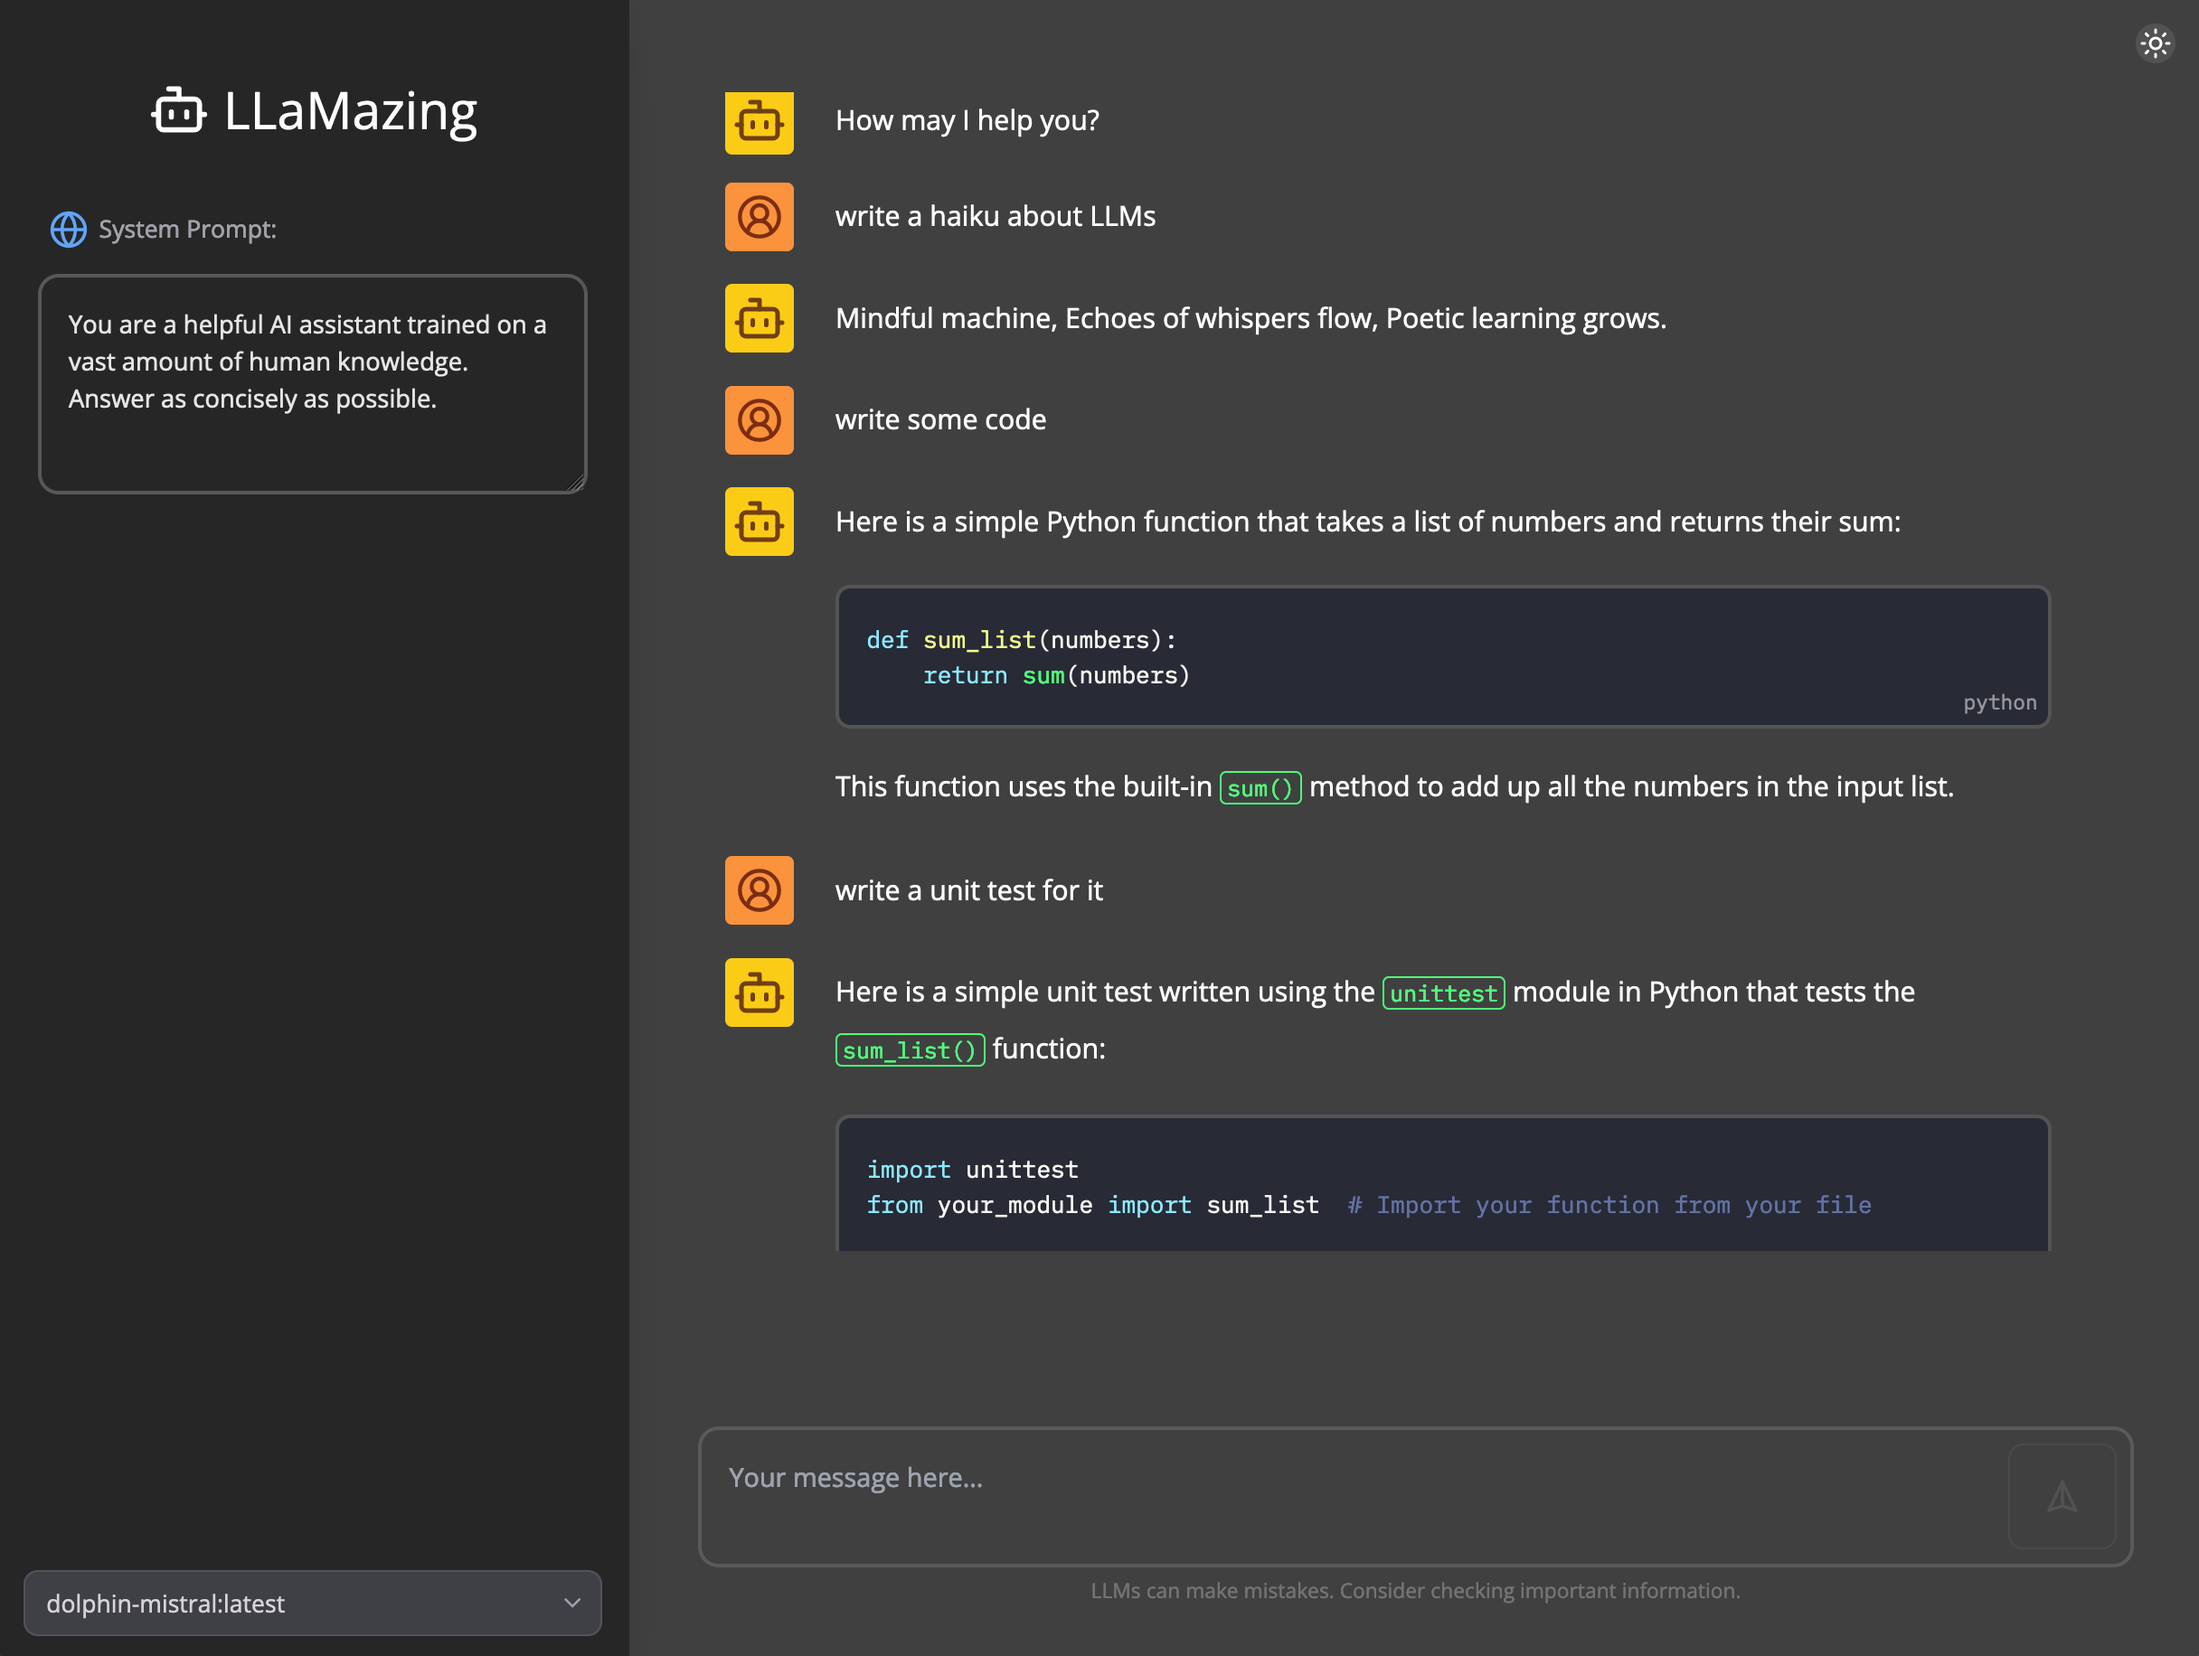
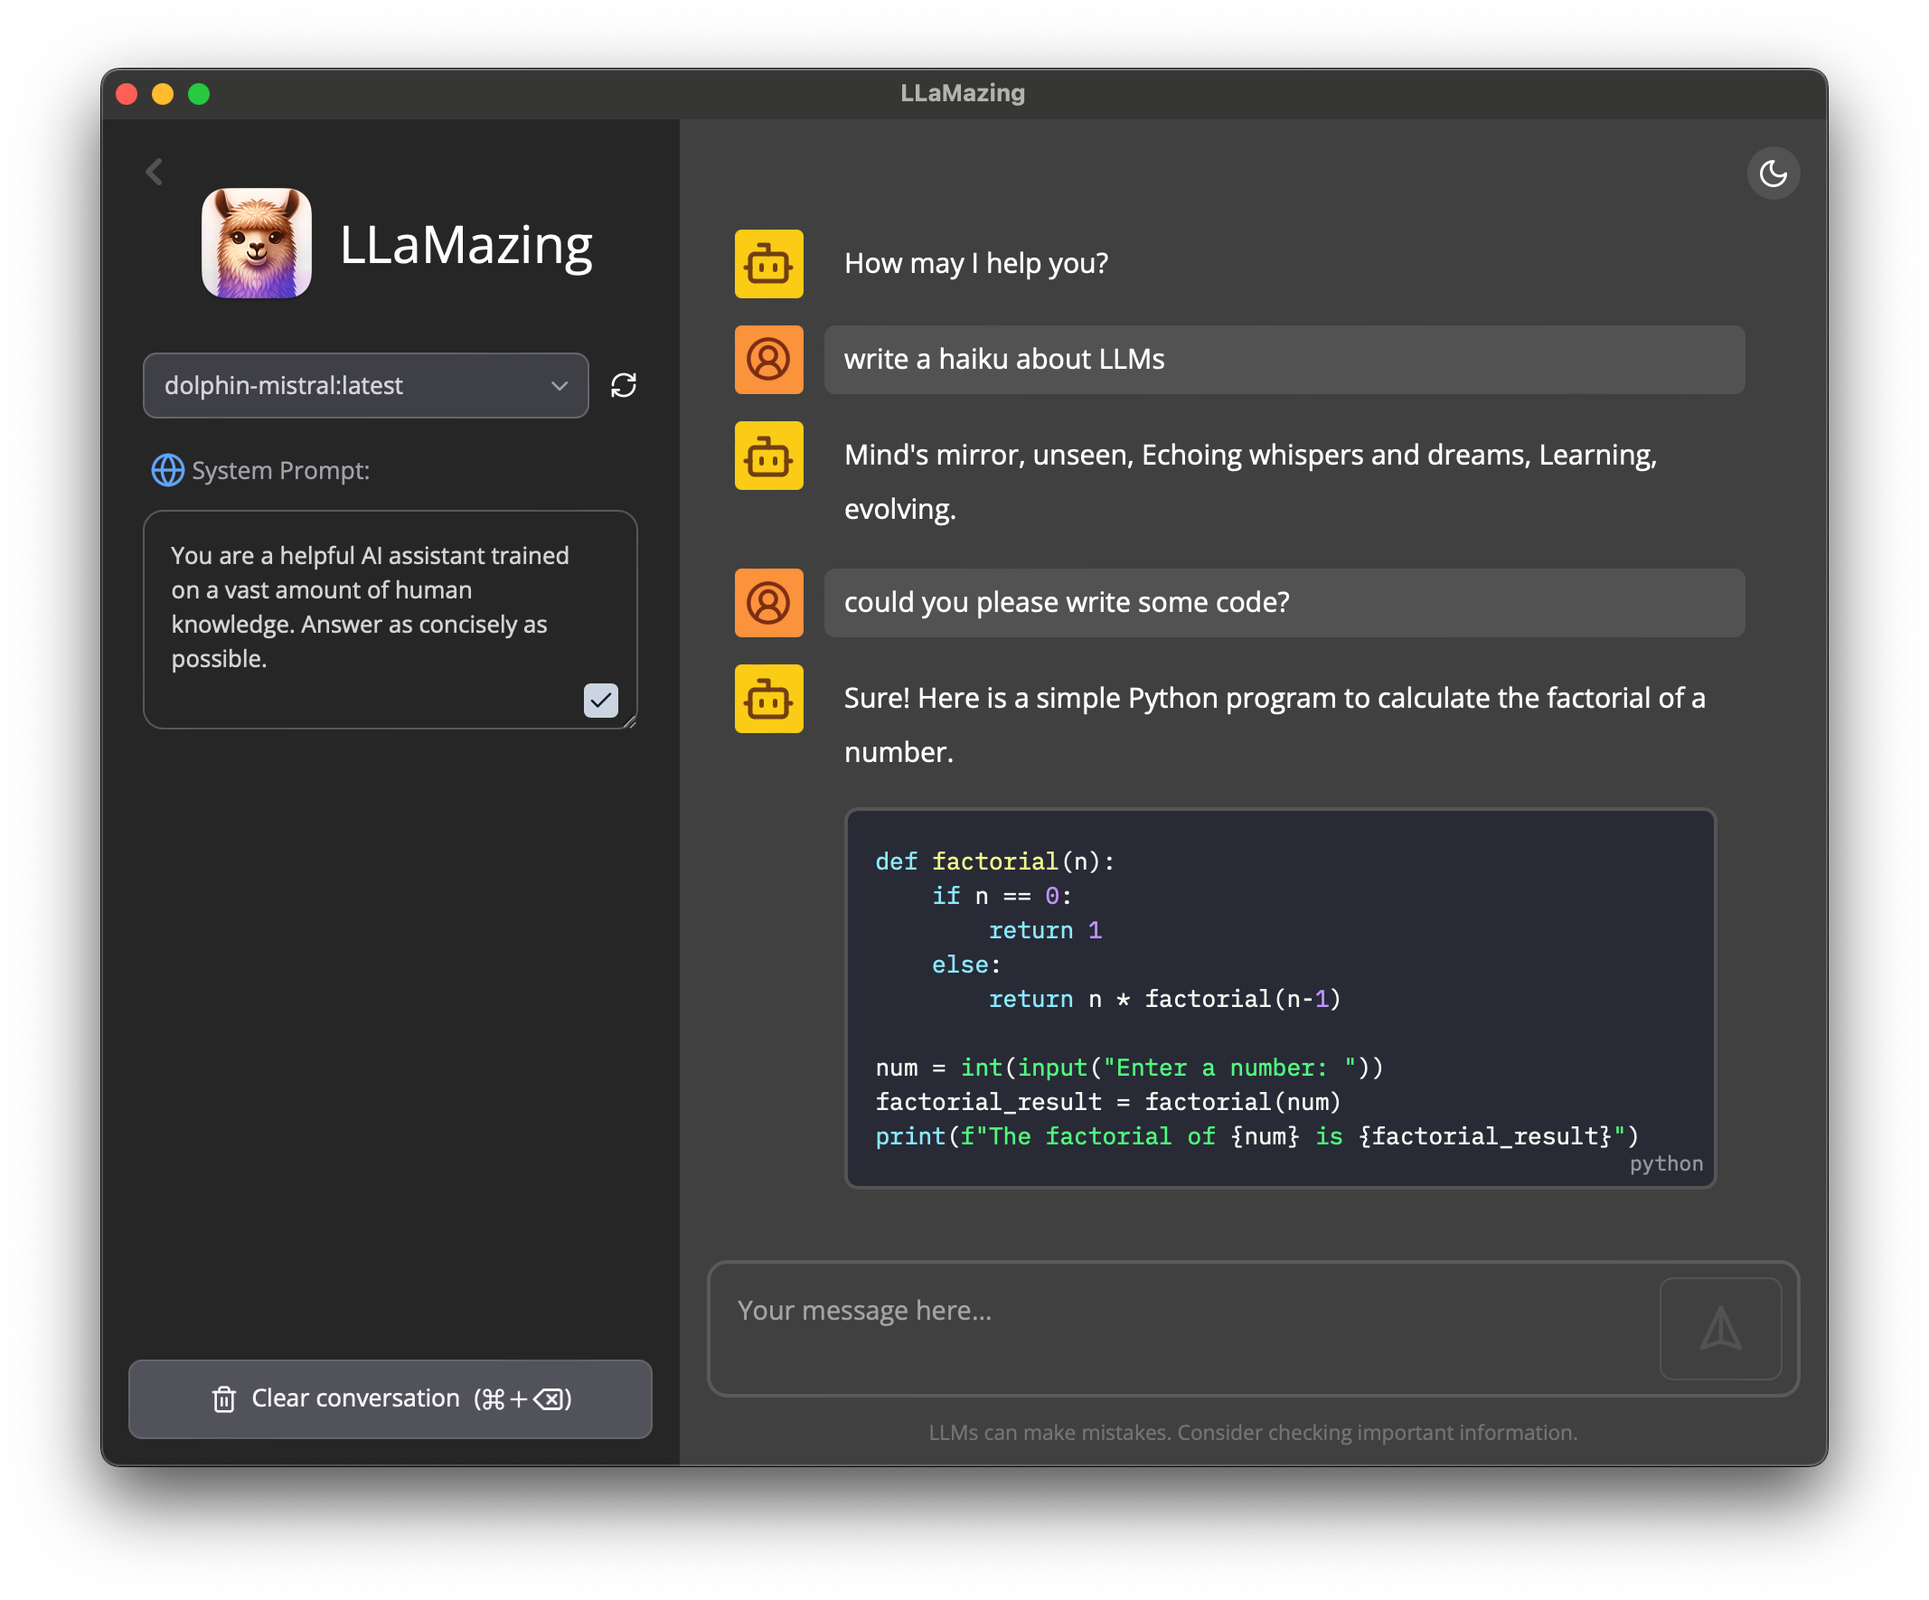
chore: update readme and screenshots

diff --git a/README.md b/README.md
@@ -6,7 +6,7 @@ A simple frontend to Ollama.
 | ------------------------- | ------------------------ |
 | ![](screenshot-light.png) | ![](screenshot-dark.png) |
 
-## Install
+## Prerequisites
 
 Install [Ollama](https://ollama.ai/) and run the server.
 
@@ -16,55 +16,64 @@ Download some [models](https://ollama.ai/library). For example, one of my favori
 $ ollama pull dolphin-mistral
 ```
 
-Install the web ui
+## Using LLaMazing
+
+For using the app itself, there are 2 options:
+
+- Web UI
+- Stand-alone app
+
+### Option 1 : Web UI
+
+#### Install dependencies:
 
 ```shell
 $ pnpm i
 ```
 
-## Run in browser (dev mode)
+#### Run in browser (dev mode)
 
 ```shell
 $ pnpm dev --open
 ```
 
-## Run standalone app (dev mode)
+## Option 2 : Standalone app
 
-```shell
-$ pnpm tauri dev
-```
-
-## Standalone App
-
-Build one yourself or download from https://github.com/da-z/llamazing/releases
+Build one yourself (see below) or download a release from https://github.com/da-z/llamazing/releases
 
 <img src="app-icon.png" width="150"/>
 
-**❗Note**: In order for the standalone app to work, you have to run ollama server like this:
+**❗Note**: In order for the standalone app to work, you have to either manually start Ollama server like this:
 
 ```shell
 $ OLLAMA_ORIGINS=*://localhost ollama serve
 ```
 
-Alternatively, set the property globally and restart Ollama server
+or set the property globally (once) and restart Ollama server
 
 ```shell
 $ launchctl setenv OLLAMA_ORIGINS '*://localhost'
 ```
 
-## Build App (Mac Universal)
+#### Running standalone app in dev mode
+
+```shell
+$ pnpm tauri dev
+```
+
+#### Building app (Mac Universal)
 
 ```shell
 $ pnpm tauri build --target universal-apple-darwin
 ```
 
-## Build App for your system
+#### Building app for your system
 
 ```shell
 $ pnpm tauri build
 ```
 
-## Build App with debugging enabled
+#### Building app with debugging enabled
 
 Good for troubleshooting a build (enables dev tools):
 
